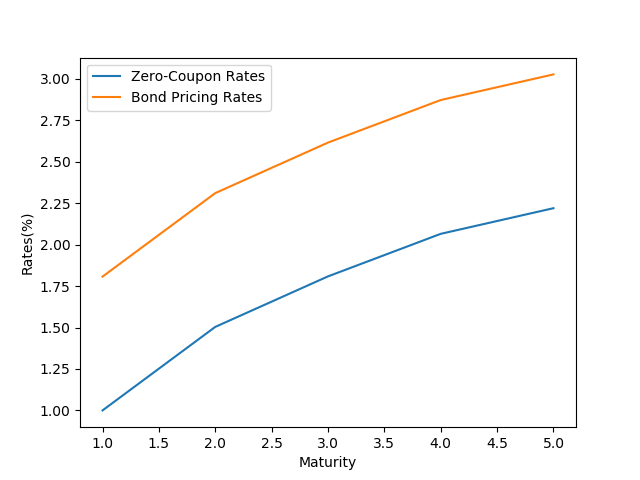
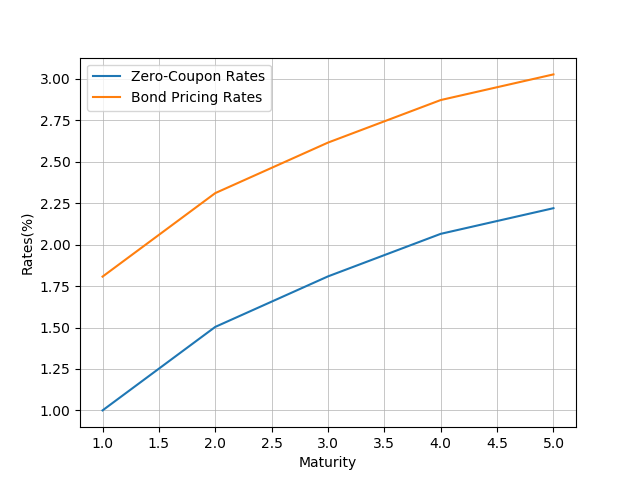
bug fixes in readme.md

diff --git a/docs/generate_docs.py b/docs/generate_docs.py
@@ -23,7 +23,7 @@ with open('docs/zspread_from_zero.md', 'w') as f:
 zero_discrete = np.array([1.0, 1.5038, 1.8085, 2.0652, 2.2199])
 coupon_cf = np.array([3.0, 3.0, 3.0, 3.0, 103.0])
 zspread_obj = ZspreadZero(zero_discrete, coupon_cf) 
-zspread_obj.calc_zspread_from_zero()
+zspread_obj.get_zspread()
 zspread_obj.plot_zspread()
 plt.savefig(os.path.join("docs", "zspread_plot.png"))
 plt.close()

diff --git a/fincomepy/zspread.py b/fincomepy/zspread.py
@@ -41,6 +41,7 @@ class ZspreadZero(FixedIncome):
         plt.plot(maturity, zspread + zero_rates_perc, label="Bond Pricing Rates")
         plt.xlabel("Maturity")
         plt.ylabel(r"Rates(%)")
+        plt.grid(linewidth=0.5)
         plt.legend()
     
     @staticmethod

diff --git a/README.md b/README.md
@@ -28,6 +28,13 @@ python setup.py install
 
 Usage
 ----------
+First import packages
+```{python}
+import numpy as np
+import matplotlib.pyplot as plt
+from datetime import date
+from fincomepy import *
+```
 
 ### Z-spread calculation from zero coupon bond
 
@@ -56,6 +63,7 @@ zspr_test1.get_zspread()
 Visualize the z-spread:
 ```{python}
 zspr_test1.plot_zspread()
+plt.show()
 ```
 
 ![image](docs/zspread_plot.png)
@@ -75,6 +83,7 @@ Assuing we have a 5-year bond with 3% annual coupon. Suppose the 1-5 year par-co
 
 Obtain z-spread:
 ```{python}
+par_rates = np.array([1.00, 1.50, 1.80, 2.05, 2.20])
 zspr_test2 = ZspreadPar(par_rates, coupon_cf)
 zspr_test2.get_zspread()
 ```
@@ -229,7 +238,7 @@ Suppose we have the following bond future information.
 
 ```{python}
 # first construct a bond future object
-bf_test = BondFuture(settlement=date(2020,7,15), maturity=date(2030,5,15), coupon_perc=0.625 
+bf_test = BondFuture(settlement=date(2020,7,15), maturity=date(2030,5,15), coupon_perc=0.625, 
    price_perc=99.9375, frequency=2, basis=1, repo_period=30, repo_rate_perc=0.145, 
    futures_pr_perc=140, conversion_factor=0.8)
 # similar to repo, another way to construct a bond future object is to use repo end date
